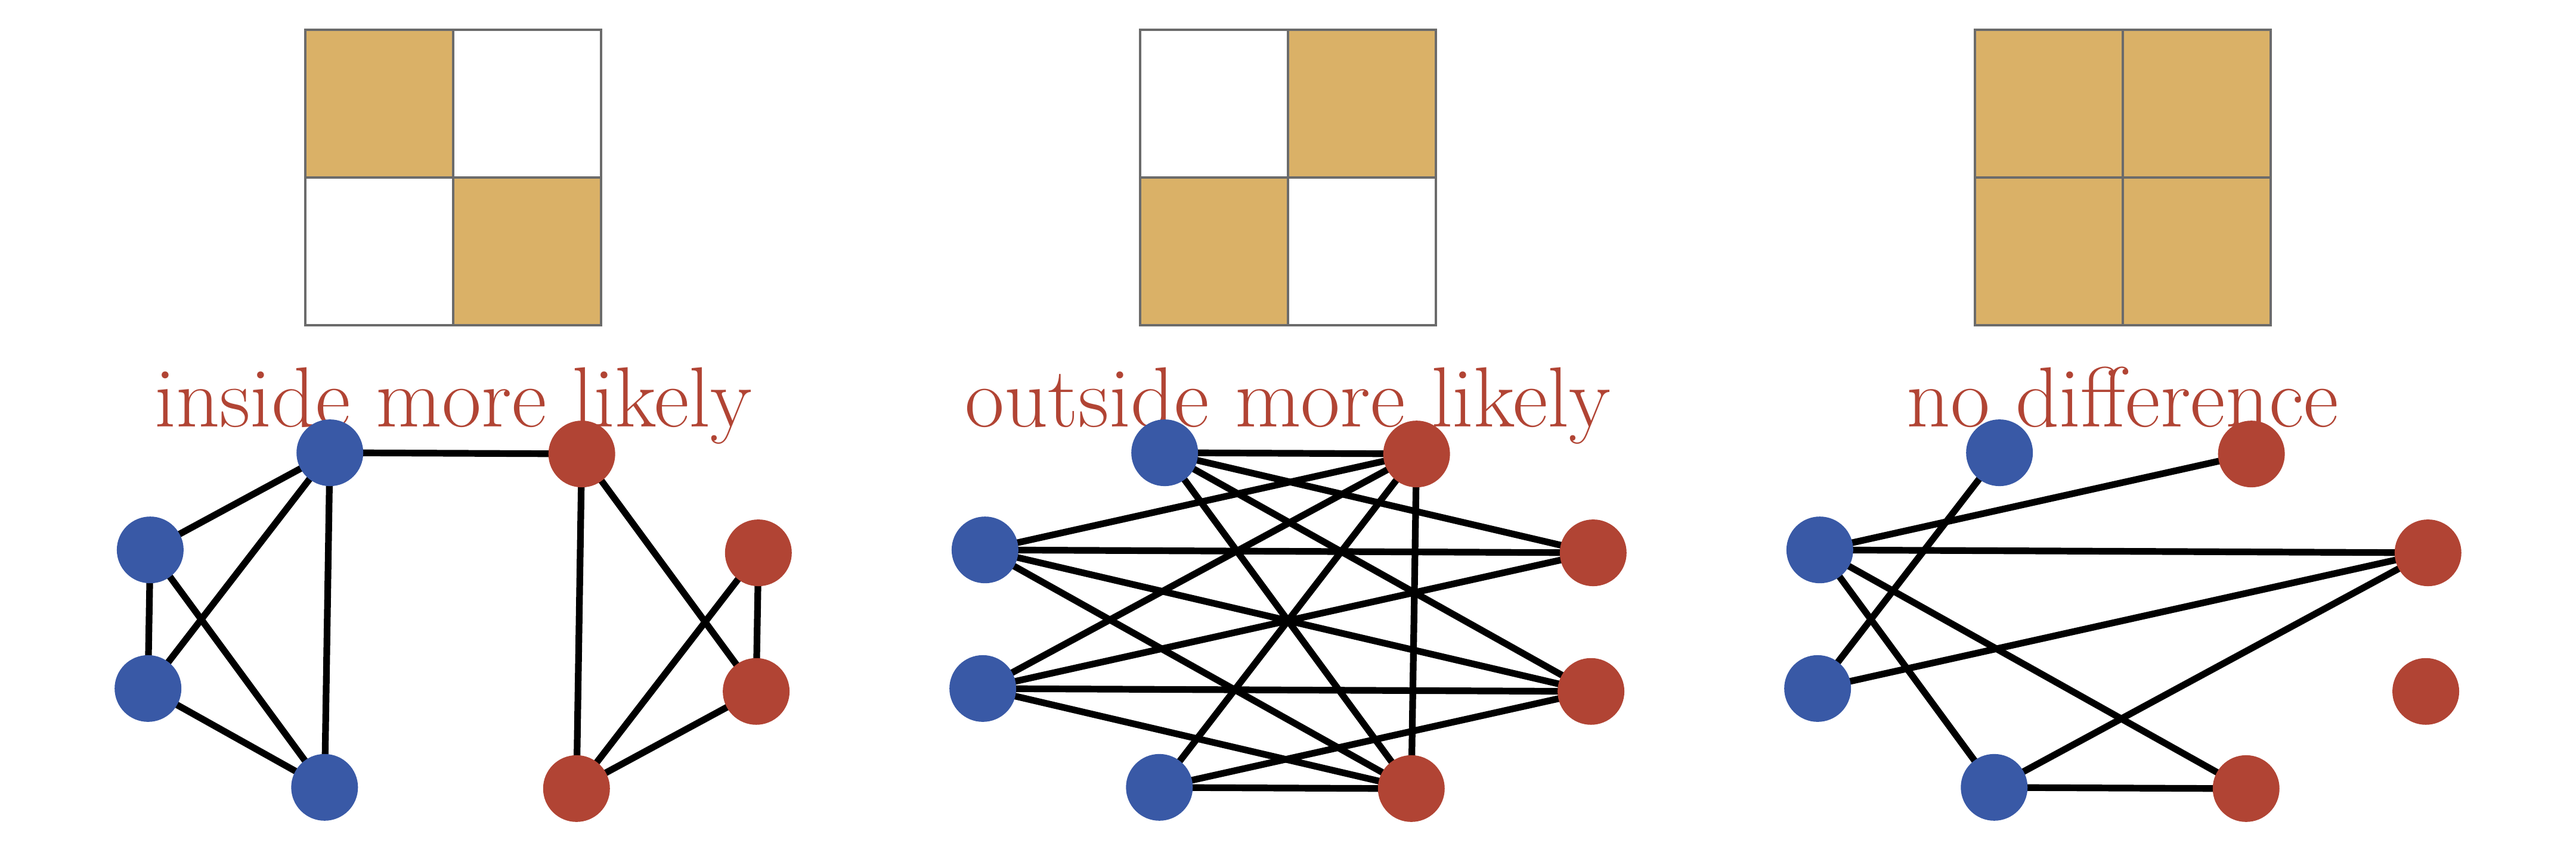
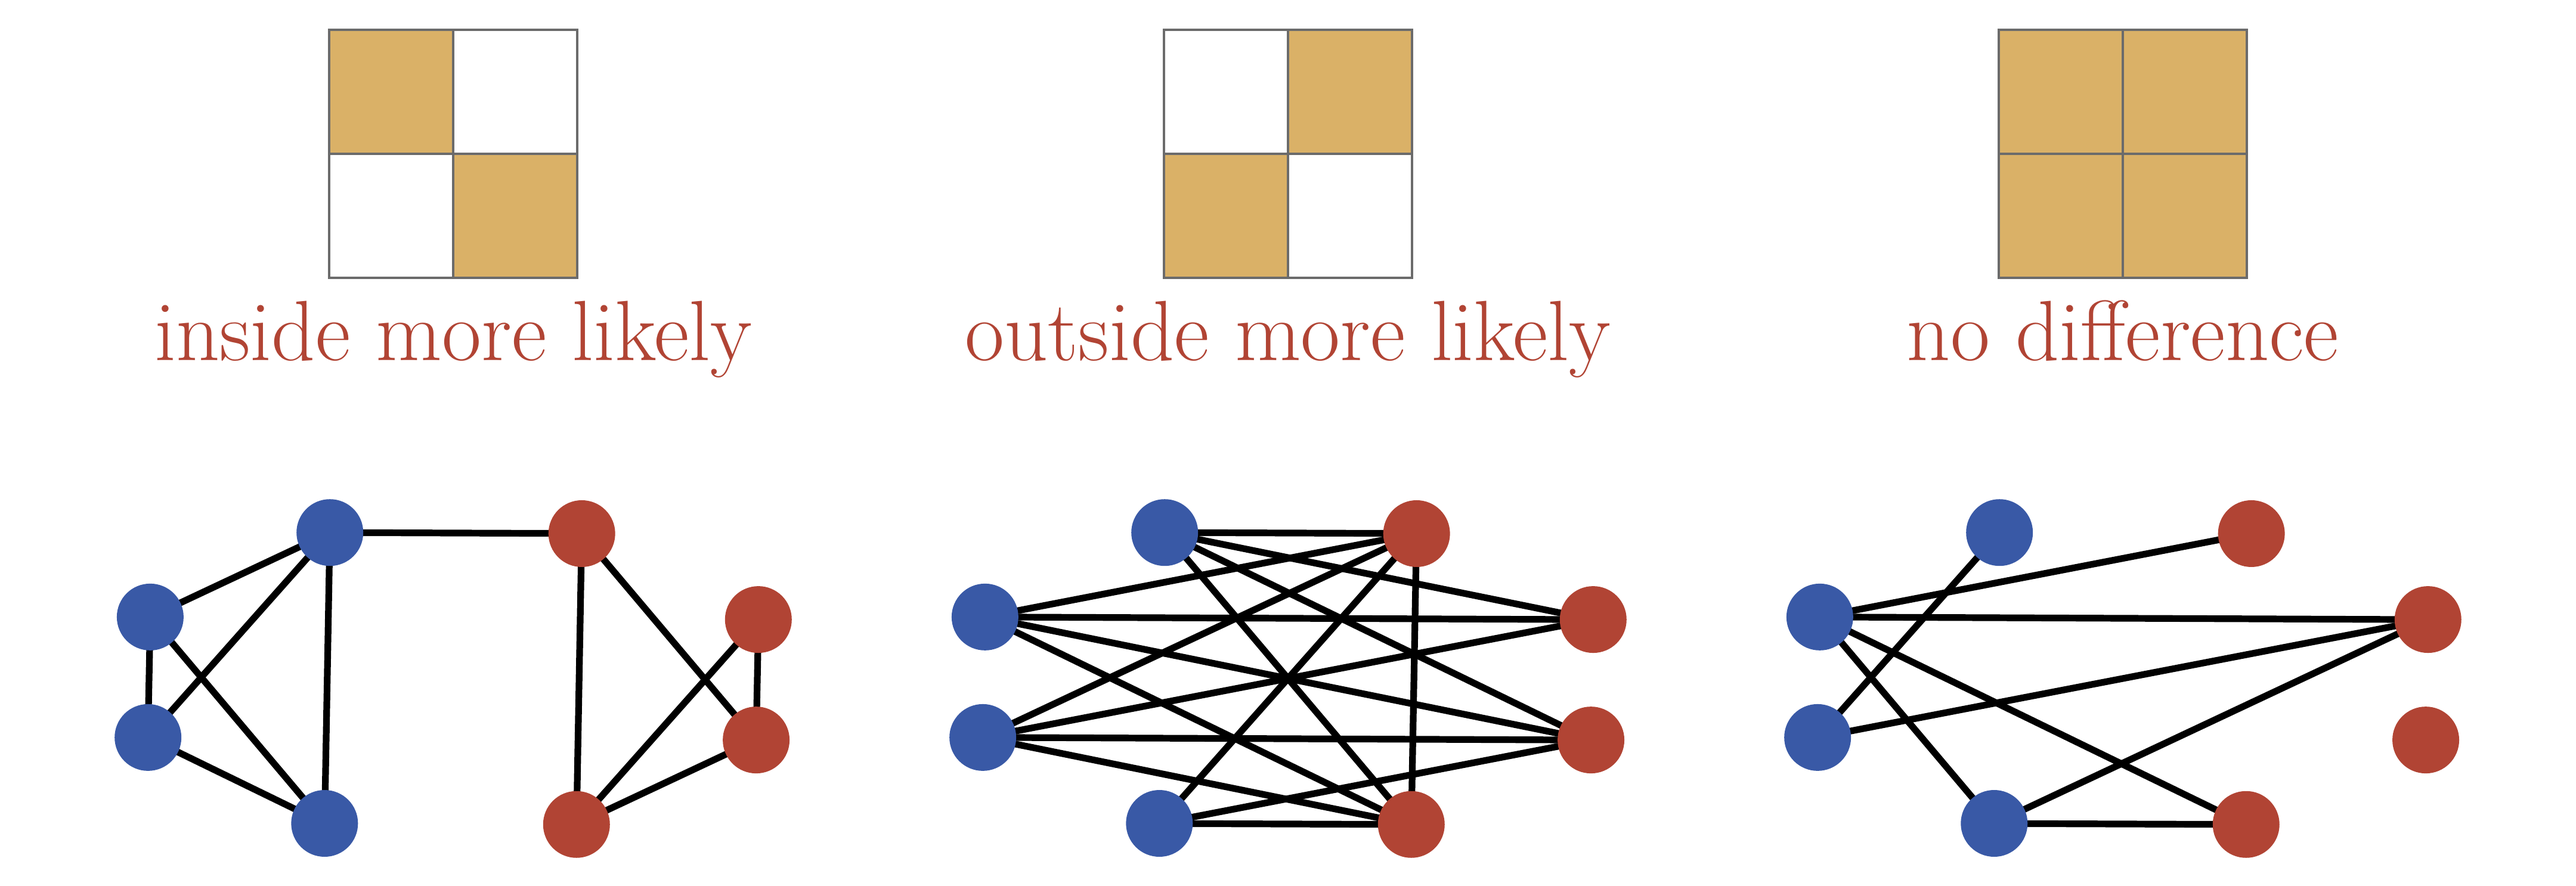
m05 figures, Parts 4-9: 71 stills, every claim recomputed at draw time
What the gates caught this round, none of it visible in the source:

- The two resolution-limit demos do NOT have identical edge lists. two-cliques
  joins its cliques at (0,6), two-cliques-big-clique at (0,5). The cliques are
  identical and that is what the argument needs, so the assertion now checks the
  thing that is true -- both cliques complete on the same members, exactly one
  friendship between them -- instead of the thing I assumed.
- A spring layout knows nothing about disc radius, so the 40-node random demo
  parked three people on top of edges they had no part in. kfig.relax() repairs it
  the way the club's own layout does.
- Five cliques drawn on a ring came out aligned when stacked vertically, putting
  their nearest members 6bp apart; _pentagon now takes the facing angle.
- Six people on an ellipse at start=90 leave the widest points empty and lose 10%
  of the span -- exactly FIGURE_GUIDE's note about square figures.

Two question-slide figures assert their own silence: worksheet-q and worksheet-nmi
grep their own TikZ for the answer they must not contain.

diff --git a/docs/slide/new/m05/figures/figs_doubt.py b/docs/slide/new/m05/figures/figs_doubt.py
@@ -16,8 +16,8 @@ import numpy as np
 import verify_numbers as V
 from figlib import Axes, FONT, disc, dot, emit, seg, text
 from kfig import (
-    CHI, COFF, arrow, cell_grid, club, dot_strip, karate, number_line, ring_positions,
-    small, split_fill,
+    CHI, COFF, arrow, blob, cell_grid, club, dot_strip, karate, number_line, relax,
+    ring_positions, small, split_fill,
 )
 from figs_story import _pentagon
 
@@ -52,56 +52,70 @@ def _tcsplit():
     return out
 
 
-def _big_pos():
-    """The two five-cliques on the left, the forty-node community filling the right."""
-    pos = {}
-    pos.update(_pentagon(list(range(5)), 132, 292, 84, 0))
-    pos.update(_pentagon(list(range(5, 10)), 132, 96, 84, 6))
-    rng = np.random.default_rng(3)
-    for i, n in enumerate(range(10, 50)):
-        r, c = divmod(i, 8)
-        pos[n] = (420 + c * 84 + rng.uniform(-14, 14), 60 + r * 68 + rng.uniform(-12, 12))
-    return pos
+def _assert_same_cliques():
+    """The two demo networks must contain the same pair of five-cliques.
+
+    Not the same edge list: the small network joins them at (0,6) and the big one at
+    (0,5), which relabels one endpoint and nothing else. What the argument actually
+    needs -- and what is checked here -- is that both cliques are complete on the same
+    members in both networks, and that exactly one friendship joins them in each.
+    """
+    for g, name in ((V.two_cliques(), "two-cliques"),
+                    (V.two_cliques_big(), "two-cliques-big-clique")):
+        for c in (V.CLIQUE_A, V.CLIQUE_B):
+            assert g.subgraph(c).number_of_edges() == 10, \
+                f"{name}: {sorted(c)} is not complete"
+        joins = [e for e in g.edges()
+                 if {e[0] in V.CLIQUE_A, e[1] in V.CLIQUE_A} == {True, False}
+                 and max(e) < 10]
+        assert len(joins) == 1, f"{name}: {len(joins)} friendships join the two cliques"
+
+
+def _clique_pair(cx, cy_top, cy_bot, r):
+    """The two cliques stacked, each rotated so its bridge member faces the other."""
+    g = V.two_cliques_big()
+    a, b = [e for e in g.edges() if (e[0] < 5) != (e[1] < 5) and max(e) < 10][0]
+    return {**_pentagon(list(range(5)), cx, cy_top, r, a, start=270),
+            **_pentagon(list(range(5, 10)), cx, cy_bot, r, b, start=90)}
 
 
 @fig("big-clique-net", h=380)
 def _bignet():
-    """The same two cliques, and a forty-person community that has nothing to do with them."""
+    """The same two cliques, and a forty-person community with nothing to do with them."""
+    _assert_same_cliques()
     g = V.two_cliques_big()
-    small_g = V.two_cliques()
-    for a in range(10):
-        for b in range(a + 1, 10):
-            assert g.has_edge(a, b) == small_g.has_edge(a, b), (
-                "the two demo networks must agree on every pair among the first ten -- "
-                "that identity is the entire resolution-limit argument")
-    pos = _big_pos()
-    e = [tuple(x) for x in g.edges()]
-    return small(pos, e, node=28, what="big-clique-net", planar=False,
-                 fill={n: (CHI if n < 5 else COFF if n < 10 else "annot") for n in pos},
-                 edge_w=1.6)
+    pos = _clique_pair(180, 276, 112, 72)
+    e = [tuple(x) for x in g.edges() if max(x) < 10]
+    out = small(pos, e, node=32, what="big-clique-net", planar=False,
+                fill={n: (CHI if n < 5 else COFF) for n in pos})
+    out += blob(740, 194, 300, 150)
+    out += text(740, 196, "forty more", color="black", anchor="center", size=44)
+    link = [x for x in g.edges() if (min(x) < 10) != (max(x) < 10)]
+    assert len(link) == 1, link
+    out += seg(pos[min(link[0])], (446, 220), color="black", w=2.6)
+    return out
 
 
 @fig("resolution-limit", h=380)
 def _reslimit():
     """Before and after: nothing about the cliques changed, and the answer did."""
     f = V.facts()
-    pos, g = _two_clique_pos(cx_left=132, cx_right=132, cy=292, r=84)
+    _assert_same_cliques()
+    assert f["tcb"]["Q_merged"] > f["tcb"]["Q_split"], "in company they must merge"
+    assert f["tc"]["Q_split"] > f["tc"]["Q_merged"], "alone they must stay apart"
+    g = V.two_cliques()
     out = ""
-    left = {**_pentagon(list(range(5)), 148, 292, 88, 0),
-            **_pentagon(list(range(5, 10)), 148, 92, 88, 6)}
-    bridge = [e for e in g.edges() if (e[0] < 5) != (e[1] < 5)]
-    out += small(left, list(g.edges()), node=30, what="reslimit-before", planar=False,
-                 fill={n: (CHI if n < 5 else COFF) for n in left})
-    out += text(148, 30, "two answers", color="accenttwo", anchor="north", size=FONT)
-    big = V.two_cliques_big()
-    right = {n: (x + 560, y) for n, (x, y) in left.items()}
-    right.update({n: (700 + (i % 7) * 54, 78 + (i // 7) * 52)
-                  for i, n in enumerate(range(10, 50))})
-    e = [tuple(x) for x in big.edges()]
-    out += small(right, e, node=26, what="reslimit-after", planar=False, edge_w=1.4,
-                 fill={n: (CHI if n < 10 else "annot") for n in right})
-    out += text(628, 30, "one", color="accenttwo", anchor="north", size=FONT)
-    assert f["tcb"]["Q_merged"] > f["tcb"]["Q_split"]
+    left = _clique_pair(120, 282, 116, 68)
+    out += small(left, list(g.edges()), node=28, what="reslimit-before",
+                 planar=False, fill={n: (CHI if n < 5 else COFF) for n in left})
+    out += text(120, 40, "two groups", color="accenttwo", anchor="north", size=FONT)
+    right = {n: (x + 420, y) for n, (x, y) in left.items()}
+    out += small(right, list(g.edges()), node=28, what="reslimit-after",
+                 planar=False, fill={n: "accentthree" for n in right})
+    out += blob(884, 200, 162, 146)
+    out += text(884, 200, "forty", color="black", anchor="center", size=44)
+    out += seg((584, 224), (722, 212), color="black", w=2.6)
+    out += text(540, 40, "one group", color="accenttwo", anchor="north", size=FONT)
     return out
 
 
@@ -130,15 +144,16 @@ def _nonlocal():
     """Two identical groups, two different fates, decided somewhere else entirely."""
     out = ""
     for x0, crowd in ((40, 0), (560, 26)):
-        pos = {**_pentagon(list(range(5)), x0 + 110, 268, 76, 0),
-               **_pentagon(list(range(5, 10)), x0 + 110, 100, 76, 6)}
-        g = V.two_cliques()
-        out += small(pos, list(g.edges()), node=28, what=f"non-local-{x0}", planar=False,
+        g0 = V.two_cliques()
+        a, b = [e for e in g0.edges() if (e[0] < 5) != (e[1] < 5)][0]
+        pos = {**_pentagon(list(range(5)), x0 + 110, 252, 60, a, start=270),
+               **_pentagon(list(range(5, 10)), x0 + 110, 96, 60, b, start=90)}
+        out += small(pos, list(g0.edges()), node=28, what=f"non-local-{x0}", planar=False,
                      fill={n: (CHI if n < 5 else COFF) for n in pos})
         rng = np.random.default_rng(x0)
         for i in range(crowd):
-            out += disc(x0 + 250 + (i % 6) * 40 + rng.uniform(-6, 6),
-                        70 + (i // 6) * 60 + rng.uniform(-6, 6), fill="annot", size=26)
+            out += disc(x0 + 252 + (i % 6) * 42 + rng.uniform(-5, 5),
+                        62 + (i // 6) * 56 + rng.uniform(-5, 5), fill="annot", size=26)
     return out
 
 
@@ -169,7 +184,8 @@ def _rnd():
     """Forty people wired together at random. No groups were put in."""
     g = V.random_net()
     assert g.number_of_edges() == 41
-    pos = _spring(g, 1040, 330, seed=5)
+    pos = relax(_spring(g, 1040, 330, seed=5), list(g.edges()), node=30,
+                box=(26, 46, 1054, 350))
     return small(pos, list(g.edges()), node=30, what="random-net", planar=False,
                  fill={n: "annot" for n in pos}, edge_w=2.2)
 
@@ -271,10 +287,12 @@ def _disagree():
     return out
 
 
-SIX = ring_positions(6, 540, 208, 380, 128, start=90)
+# start=0 puts two members at the horizontal extremes; at 90 the widest
+# points of the ellipse carry nobody and the drawing loses 10% of its span.
+SIX = ring_positions(6, 540, 190, 424, 122, start=0)
 
 
-@fig("pairs-15", h=340)
+@fig("pairs-15", h=360)
 def _pairs():
     """Six people make fifteen pairs, and every score below counts those pairs."""
     n = 6
@@ -293,11 +311,11 @@ def _mi():
                                          (104, "what the method said", "accent"))):
         labels = V.WORKSHEET_TRUTH if row == 0 else V.WORKSHEET_FOUND
         for i, g in enumerate(labels):
-            out += disc(200 + i * 128, y, size=48,
+            out += disc(118 + i * 169, y, size=48,
                         fill=(col if g == 0 else "annot"))
         out += text(96, y, lab, color=col, anchor="east", size=FONT) if False else ""
     for i in range(6):
-        out += seg((200 + i * 128, 268), (200 + i * 128, 132), color="annot", w=2.6)
+        out += seg((118 + i * 169, 268), (118 + i * 169, 132), color="annot", w=2.6)
     out += text(540, 44, f"they agree about five of the six", color="black",
                 anchor="north", size=FONT)
     assert abs(s["I"] - 0.3183) < 5e-5
@@ -311,7 +329,7 @@ def _nmiform():
     total = (s["H_true"] + s["H_found"]) / 2
     share = s["I"] / total
     assert abs(2 * s["I"] / (s["H_true"] + s["H_found"]) - s["nmi"]) < 1e-12
-    x0, x1, y = 150, 970, 210
+    x0, x1, y = 116, 1004, 210
     out = seg((x0, y), (x1, y), color="annot", w=26)
     out += seg((x0, y), (x0 + (x1 - x0) * share, y), color="accenttwo", w=26)
     out += text(x0 + (x1 - x0) * share / 2, y - 30, "shared", color="accenttwo",
@@ -321,7 +339,7 @@ def _nmiform():
     return out
 
 
-def _six_row(labels, y, cols, size=48, x0=200, dx=128):
+def _six_row(labels, y, cols, size=48, x0=118, dx=169):
     out = ""
     for i, g in enumerate(labels):
         out += disc(x0 + i * dx, y, size=size, fill=cols[g])
@@ -334,7 +352,7 @@ def _wsnmi():
     out = _six_row(V.WORKSHEET_TRUTH, 268, {0: "accenttwo", 1: "annot"})
     out += _six_row(V.WORKSHEET_FOUND, 108, {0: "accent", 1: "annot"})
     for i in range(6):
-        out += seg((200 + i * 128, 240), (200 + i * 128, 136), color="annot", w=2.2)
+        out += seg((118 + i * 169, 240), (118 + i * 169, 136), color="annot", w=2.2)
     for token in ("0.47", "0.32", "10/15", "NMI"):
         assert token not in out, f"{token!r} leaks the answer onto the question slide"
     return out
@@ -348,7 +366,7 @@ def _wsnmia():
     out = _six_row(V.WORKSHEET_TRUTH, 288, {0: "accenttwo", 1: "annot"})
     out += _six_row(V.WORKSHEET_FOUND, 158, {0: "accent", 1: "annot"})
     for i in range(6):
-        out += seg((200 + i * 128, 260), (200 + i * 128, 186), color="annot", w=2.2)
+        out += seg((118 + i * 169, 260), (118 + i * 169, 186), color="annot", w=2.2)
     out += text(370, 74, f"{s['nmi']:.2f}", color="accenttwo", anchor="north", size=56)
     out += text(370, 118, "shared", color="annot", anchor="north", size=FONT)
     out += text(760, 74, f"{s['rand'].numerator * 5}/15", color="accent",
@@ -454,7 +472,7 @@ def _apps():
     out += small(pos, e, node=34, what="applications",
                  fill={n: cols[n // 4] for n in pos})
     for g, lab in enumerate(labels):
-        out += text(148 + g * 262, 108, lab.replace(" ", "\\\\", 2), color="annot",
+        out += text(148 + g * 262, 116, lab.replace(" ", "\\\\", 2), color="annot",
                     anchor="north", size=FONT)
     return out
 

diff --git a/docs/slide/new/m05/figures/figs_story.py b/docs/slide/new/m05/figures/figs_story.py
@@ -314,17 +314,21 @@ def _cutdef():
     return out
 
 
-def _pentagon(nodes, cx, cy, r, facing):
-    """Five mutual friends on a circle, rotated to bring `facing` nearest the middle.
+def _pentagon(nodes, cx, cy, r, facing, start=None):
+    """Five mutual friends on a circle, rotated to bring `facing` nearest the other five.
 
     A clique of five has no crossing-free drawing, but it must still not run an edge
     through somebody else's disc -- which is exactly what happened when the bridge left
     from whichever node the default angle happened to put at the back.
+
+    `start` is the angle the facing member sits at. It defaults to the horizontal pair
+    (the two cliques side by side); pass 270 and 90 when they are stacked instead, or
+    the two rings come out aligned and their nearest members end up 6bp apart.
     """
     i = nodes.index(facing)
-    start = 180.0 if cx > 540 else 0.0
-    order = nodes[i:] + nodes[:i]
-    return ring_positions(5, cx, cy, r, r, start=start, order=order)
+    if start is None:
+        start = 180.0 if cx > 540 else 0.0
+    return ring_positions(5, cx, cy, r, r, start=start, order=nodes[i:] + nodes[:i])
 
 
 @fig("two-cliques", h=380)
